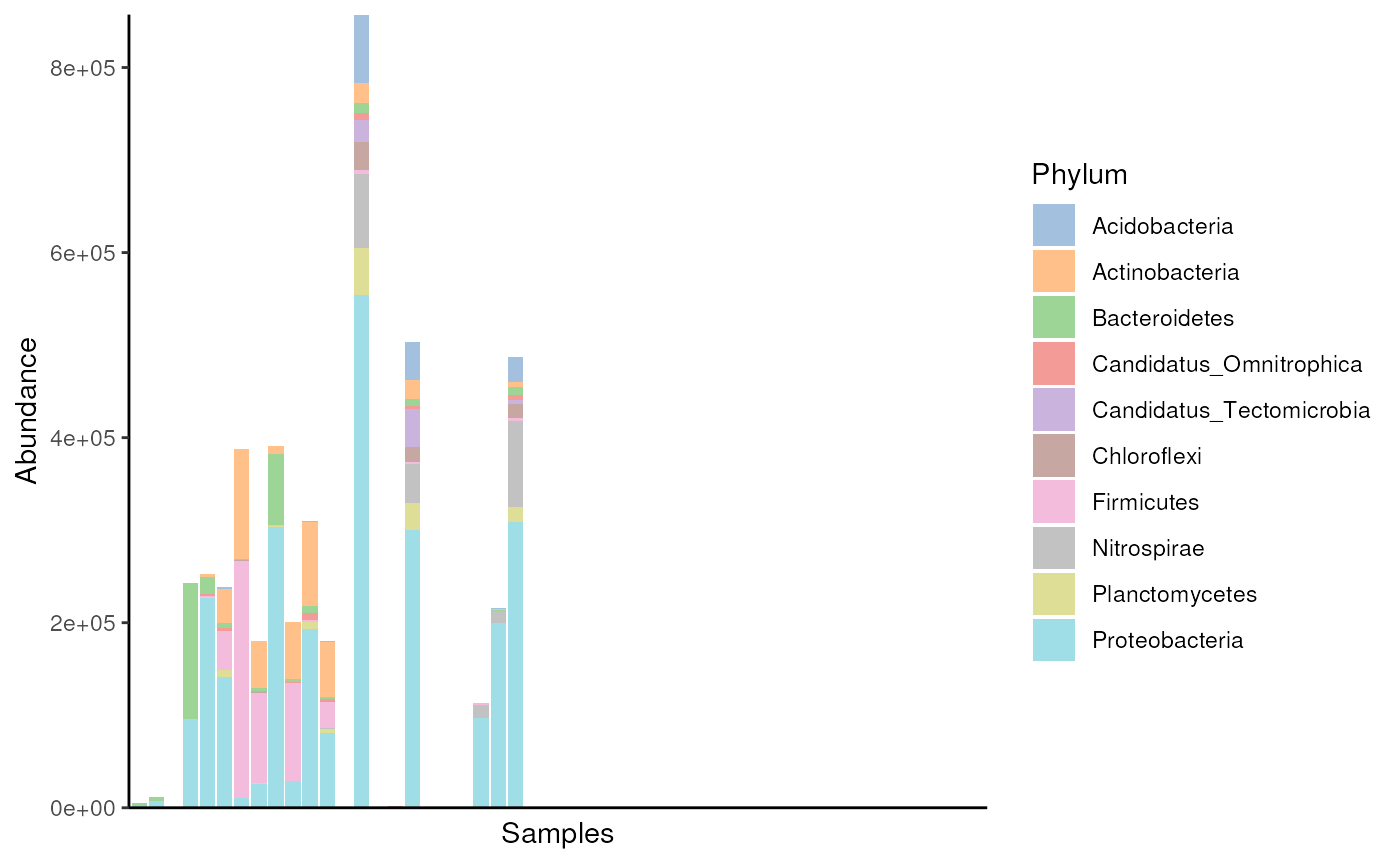
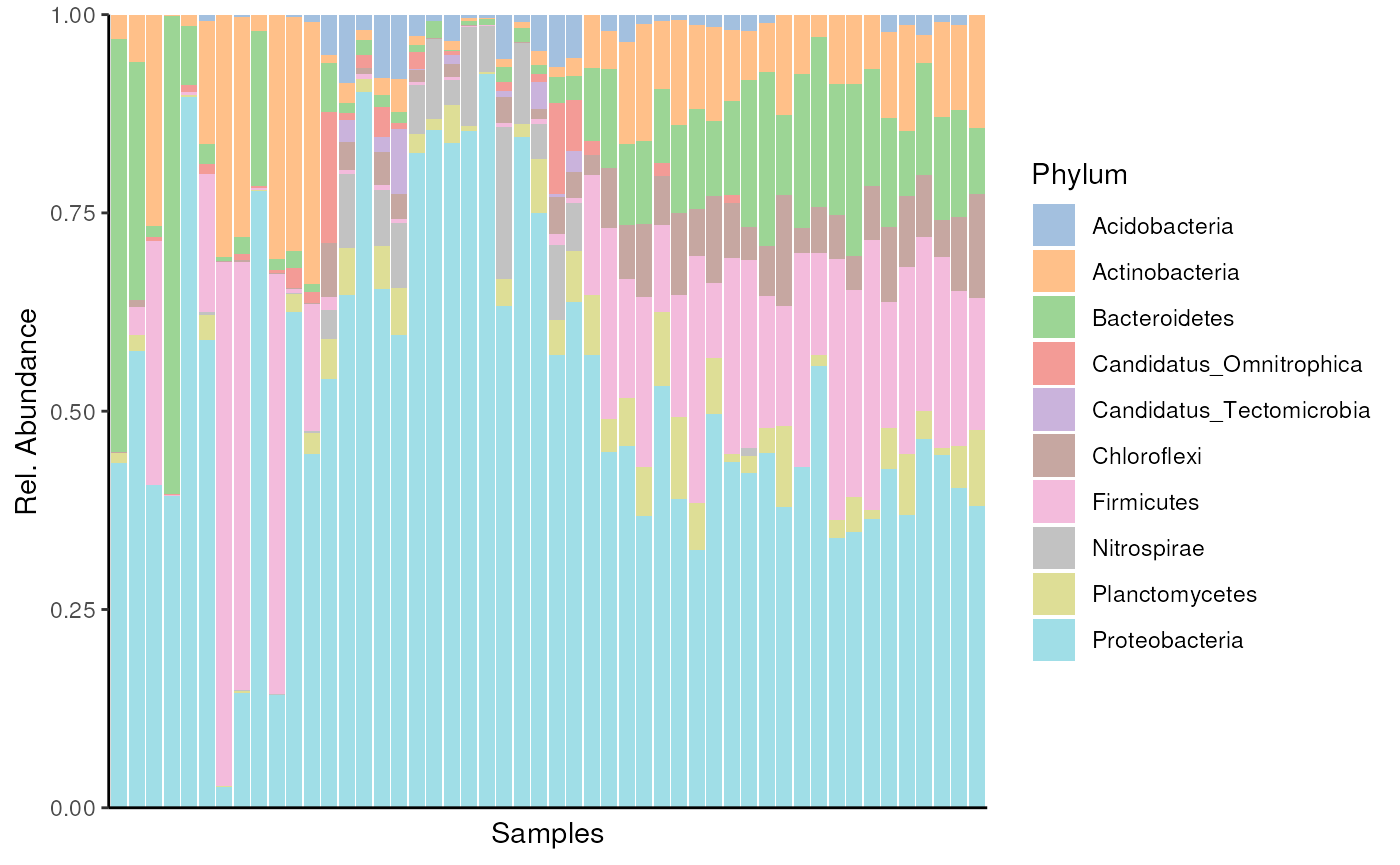
Deploying to gh-pages from @ EBI-Metagenomics/MGnifyR@97a4d531f30b7474227d402405d2dd7774fe09df 🚀

diff --git a/articles/MGnifyR.html b/articles/MGnifyR.html
@@ -59,7 +59,7 @@
 
       <h1>MGnifyR</h1>
             
-            <h4 data-toc-skip class="date">2024-09-19</h4>
+            <h4 data-toc-skip class="date">2024-09-23</h4>
       
       <small class="dont-index">Source: <a href="https://github.com/EBI-Metagenomics/MGnifyR/blob/mgnify_course/vignettes/MGnifyR.Rmd" class="external-link"><code>vignettes/MGnifyR.Rmd</code></a></small>
       <div class="d-none name"><code>MGnifyR.Rmd</code></div>
@@ -188,7 +188,7 @@ snippet creates this.</p>
 <span><span class="co">#&gt; [1] TRUE</span></span>
 <span><span class="co">#&gt; </span></span>
 <span><span class="co">#&gt; Slot "cacheDir":</span></span>
-<span><span class="co">#&gt; [1] "/tmp/Rtmpgw8elH/.MGnifyR_cache"</span></span>
+<span><span class="co">#&gt; [1] "/tmp/Rtmpv8nU5N/.MGnifyR_cache"</span></span>
 <span><span class="co">#&gt; </span></span>
 <span><span class="co">#&gt; Slot "showWarnings":</span></span>
 <span><span class="co">#&gt; [1] FALSE</span></span>
@@ -346,7 +346,11 @@ tools. For example, we can estimate diversity of samples…</p>
 <span><span class="va">top_taxa</span> <span class="op">&lt;-</span> <span class="fu"><a href="https://rdrr.io/pkg/mia/man/deprecate.html" class="external-link">getTopFeatures</a></span><span class="op">(</span><span class="fu"><a href="https://rdrr.io/pkg/SingleCellExperiment/man/altExps.html" class="external-link">altExp</a></span><span class="op">(</span><span class="va">mae</span><span class="op">[[</span><span class="fl">1</span><span class="op">]</span><span class="op">]</span>, <span class="st">"Phylum"</span><span class="op">)</span>, <span class="fl">10</span><span class="op">)</span></span>
 <span><span class="co">#&gt; Warning in getTopFeatures(altExp(mae[[1]], "Phylum"), 10): 'getTopFeatures' is</span></span>
 <span><span class="co">#&gt; deprecated. Use 'getTop' instead.</span></span>
-<span><span class="fu"><a href="https://rdrr.io/pkg/miaViz/man/plotAbundance.html" class="external-link">plotAbundance</a></span><span class="op">(</span><span class="fu"><a href="https://rdrr.io/pkg/SingleCellExperiment/man/altExps.html" class="external-link">altExp</a></span><span class="op">(</span><span class="va">mae</span><span class="op">[[</span><span class="fl">1</span><span class="op">]</span><span class="op">]</span>, <span class="st">"Phylum"</span><span class="op">)</span><span class="op">[</span><span class="va">top_taxa</span>, <span class="op">]</span>, rank <span class="op">=</span> <span class="st">"Phylum"</span><span class="op">)</span></span>
+<span><span class="fu"><a href="https://rdrr.io/pkg/miaViz/man/plotAbundance.html" class="external-link">plotAbundance</a></span><span class="op">(</span></span>
+<span>    <span class="fu"><a href="https://rdrr.io/pkg/SingleCellExperiment/man/altExps.html" class="external-link">altExp</a></span><span class="op">(</span><span class="va">mae</span><span class="op">[[</span><span class="fl">1</span><span class="op">]</span><span class="op">]</span>, <span class="st">"Phylum"</span><span class="op">)</span><span class="op">[</span><span class="va">top_taxa</span>, <span class="op">]</span>,</span>
+<span>    rank <span class="op">=</span> <span class="st">"Phylum"</span>,</span>
+<span>    as.relative <span class="op">=</span> <span class="cn">TRUE</span></span>
+<span>    <span class="op">)</span></span>
 <span><span class="co">#&gt; Warning: The following values are already present in `metadata` and will be</span></span>
 <span><span class="co">#&gt; overwritten: 'agglomerated_by_rank'. Consider using the 'name' argument to</span></span>
 <span><span class="co">#&gt; specify alternative names.</span></span></code></pre></div>

diff --git a/articles/MGnifyR_long.html b/articles/MGnifyR_long.html
@@ -59,7 +59,7 @@
 
       <h1>MGnifyR, extended vignette</h1>
             
-            <h4 data-toc-skip class="date">2024-09-19</h4>
+            <h4 data-toc-skip class="date">2024-09-23</h4>
       
       <small class="dont-index">Source: <a href="https://github.com/EBI-Metagenomics/MGnifyR/blob/mgnify_course/vignettes/MGnifyR_long.Rmd" class="external-link"><code>vignettes/MGnifyR_long.Rmd</code></a></small>
       <div class="d-none name"><code>MGnifyR_long.Rmd</code></div>
@@ -309,7 +309,11 @@ diversity of samples.</p>
 <div class="sourceCode" id="cb12"><pre class="downlit sourceCode r">
 <code class="sourceCode R"><span><span class="kw"><a href="https://rdrr.io/r/base/library.html" class="external-link">library</a></span><span class="op">(</span><span class="va">miaViz</span><span class="op">)</span></span>
 <span></span>
-<span><span class="fu"><a href="https://rdrr.io/pkg/miaViz/man/plotAbundance.html" class="external-link">plotAbundance</a></span><span class="op">(</span><span class="va">tse</span><span class="op">[</span><span class="op">!</span><span class="fu"><a href="https://rdrr.io/r/base/NA.html" class="external-link">is.na</a></span><span class="op">(</span> <span class="fu"><a href="https://rdrr.io/pkg/SummarizedExperiment/man/SummarizedExperiment-class.html" class="external-link">rowData</a></span><span class="op">(</span><span class="va">tse</span><span class="op">)</span><span class="op">[[</span><span class="st">"Kingdom"</span><span class="op">]</span><span class="op">]</span> <span class="op">)</span>, <span class="op">]</span>, rank <span class="op">=</span> <span class="st">"Kingdom"</span><span class="op">)</span></span></code></pre></div>
+<span><span class="fu"><a href="https://rdrr.io/pkg/miaViz/man/plotAbundance.html" class="external-link">plotAbundance</a></span><span class="op">(</span></span>
+<span>    <span class="va">tse</span><span class="op">[</span><span class="op">!</span><span class="fu"><a href="https://rdrr.io/r/base/NA.html" class="external-link">is.na</a></span><span class="op">(</span> <span class="fu"><a href="https://rdrr.io/pkg/SummarizedExperiment/man/SummarizedExperiment-class.html" class="external-link">rowData</a></span><span class="op">(</span><span class="va">tse</span><span class="op">)</span><span class="op">[[</span><span class="st">"Kingdom"</span><span class="op">]</span><span class="op">]</span> <span class="op">)</span>, <span class="op">]</span>,</span>
+<span>    rank <span class="op">=</span> <span class="st">"Kingdom"</span>,</span>
+<span>    as.relative <span class="op">=</span> <span class="cn">TRUE</span></span>
+<span>    <span class="op">)</span></span></code></pre></div>
 <p>If needed, <code>TreeSE</code> can be converted to
 <code>phyloseq</code>.</p>
 <div class="sourceCode" id="cb13"><pre class="downlit sourceCode r">

diff --git a/articles/MGnify_course.html b/articles/MGnify_course.html
@@ -59,7 +59,7 @@
 
       <h1>Metagenomics bioinformatics at MGnify</h1>
             
-            <h4 data-toc-skip class="date">2024-09-19</h4>
+            <h4 data-toc-skip class="date">2024-09-23</h4>
       
       <small class="dont-index">Source: <a href="https://github.com/EBI-Metagenomics/MGnifyR/blob/mgnify_course/vignettes/MGnify_course.Rmd" class="external-link"><code>vignettes/MGnify_course.Rmd</code></a></small>
       <div class="d-none name"><code>MGnify_course.Rmd</code></div>
